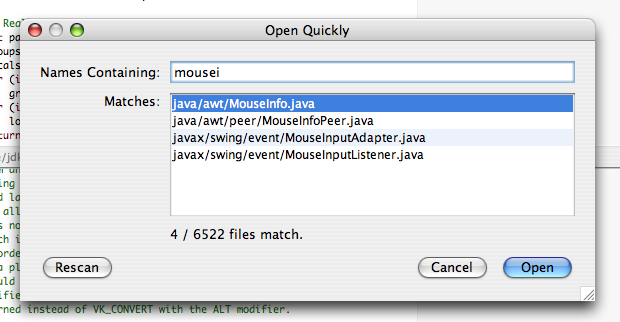
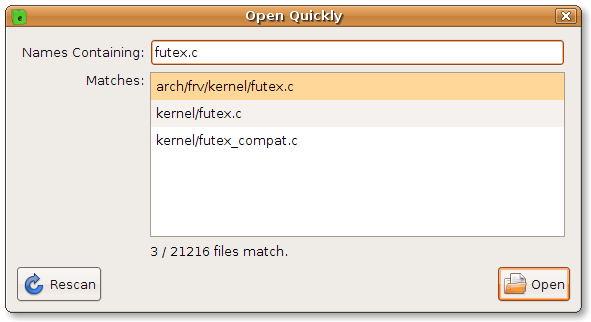
www/index.html: clarify the "heuristic" heuristic, update the "Open Quickly" screenshot, and add a section (and screenshot) for "Find in Files".
www/find-in-files.png: new screenshot.

www/open-quickly.png: updated screenshot.

diff --git a/evergreen/trunk/www/index.html b/evergreen/trunk/www/index.html
@@ -11,7 +11,7 @@
 
 <p>Evergreen started as a project to reimplement Rob Pike's <a href="http://plan9.bell-labs.com/sys/doc/acme.html">acme</a> editor in Java, so I could use it on Unix and Windows.
 (I'd got used to it at university, using Plan 9.)
-Eventually, my editor diverged and today probably represents my personality quite closely; in particular, if the computer <i>can</i> do something, it <i>must</i>.
+Eventually, my editor diverged and today probably represents my personality quite closely; in particular, if the computer <i>can</i> do the right thing, it <i>must</i>.
 I certainly shouldn't have to.
 
 <!--#include virtual="/salma-hayek/navigation.html" -->
@@ -28,9 +28,14 @@ Or what case your co-worker used ("Hyperlink" or "HyperLink"?).
 Just a substring or regular expression that matches what you want.
 Evergreen updates a list of the matching files as you type (like iTunes):
 
-<p align="center"><img src="open-quickly.png" width="620" height="322" alt="Open Quickly dialog">
+<p align="center"><img src="open-quickly.png" width="591" height="322" alt="Open Quickly dialog">
 
-<p>You can also search for files to open based on their content.
+<li><p><strong>Find in Files</strong> - You can also search for files to open based on their content.
+Evergreen shows a tree of matches, representing the directory hierarchy.
+Files containing definitions are marked as such.
+Search results are automatically updated if anything changes:
+
+<p align="center"><img src="find-in-files.png" width="723" height="502" alt="Find in Files dialog">
 
 <li><p><strong>Find</strong> - You have a fast computer, yet the 'find' function in other editors doesn't take advantage of that fact.
 Evergreen, like <tt>less(1)</tt>, highlights all the matches, whether you search with C-F or clicked on a match in the "Find in Files" dialog.
